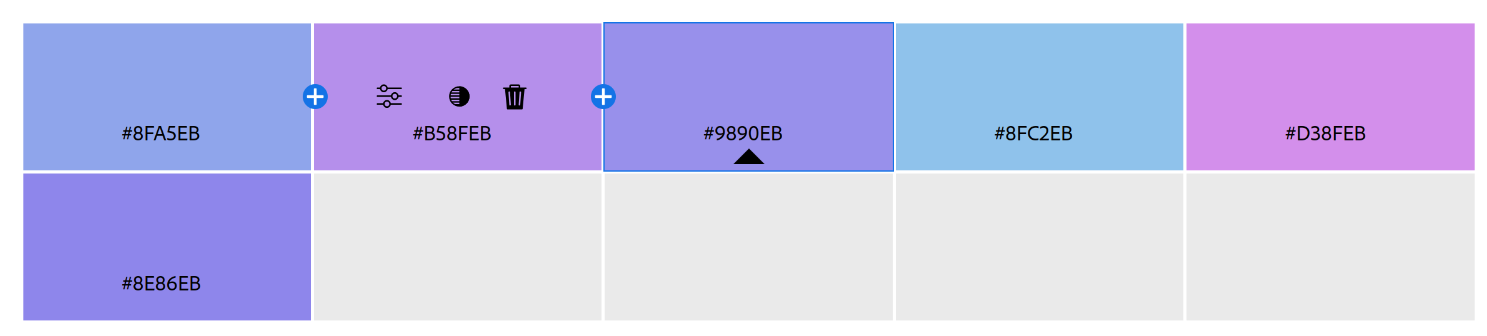
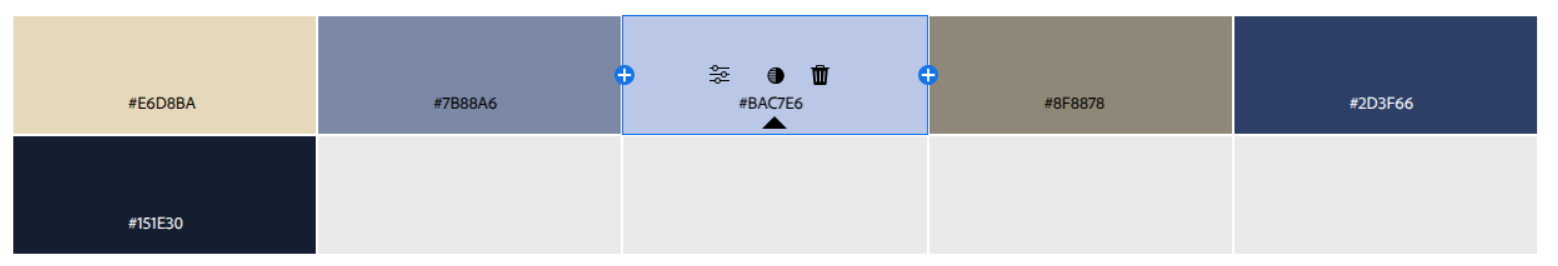
Adding Some Style

diff --git a/index.html b/index.html
@@ -8,9 +8,9 @@
 
     <link rel="preconnect" href="https://fonts.googleapis.com">
     <link rel="preconnect" href="https://fonts.gstatic.com" crossorigin>
-    <link href="https://fonts.googleapis.com/css2?family=Blinker:wght@100;200;300;400;600;700;800;900&family=Darumadrop+One&display=swap" rel="stylesheet">
+    <link href="https://fonts.googleapis.com/css2?family=IBM+Plex+Mono:ital,wght@0,100;0,200;0,300;0,400;0,500;0,600;0,700;1,100;1,200;1,300;1,400;1,500;1,600;1,700&family=Prociono&display=swap" rel="stylesheet">
 
-    <link rel="stylesheet" href="./css/style.css">
+    <link rel="stylesheet" href="css/style.css">
 
 </head>
 <body>
@@ -22,7 +22,7 @@
 
     <main>
         
-        <section>
+        <section id="hero">
             <!--hero section begins here-->
             <img src="img/avataaars.png" alt="My avatar picture">
 
@@ -35,7 +35,7 @@
             <!--hero section ends here-->
         </section>
 
-        <section>
+        <section id="bio">
             <!--bio section begins here-->
             <div>
 
@@ -48,5 +48,9 @@
         </section>
 
     </main>
+
+    <footer>
+        &copy;2025 - Alexander Makuch
+    </footer>
 </body>
 </html>

diff --git a/css/style.css b/css/style.css
@@ -1,3 +1,32 @@
 body {
-    background-color:#8FA5EB;
+    font-family:"IBM Plex Mono";
+    /*font-weight: 600;*/
+    background-color:#BAC7E6;
+    color: #2D3F66;
 }
+
+h1, h2, h3, h4, h5, h6 {
+    font-family:"Prociono";
+    font-size: 30pt;
+}
+
+header {
+    text-align:center;
+}
+
+#hero, footer {
+    color: #151E30;
+    background-color: #7B88A6;
+    text-align:center;
+    padding:10px;
+    border: 2px solid #2D3F66;
+}
+
+#hero img {
+    width: 150px;
+}
+
+#bio {
+    text-align:center;
+}
+
